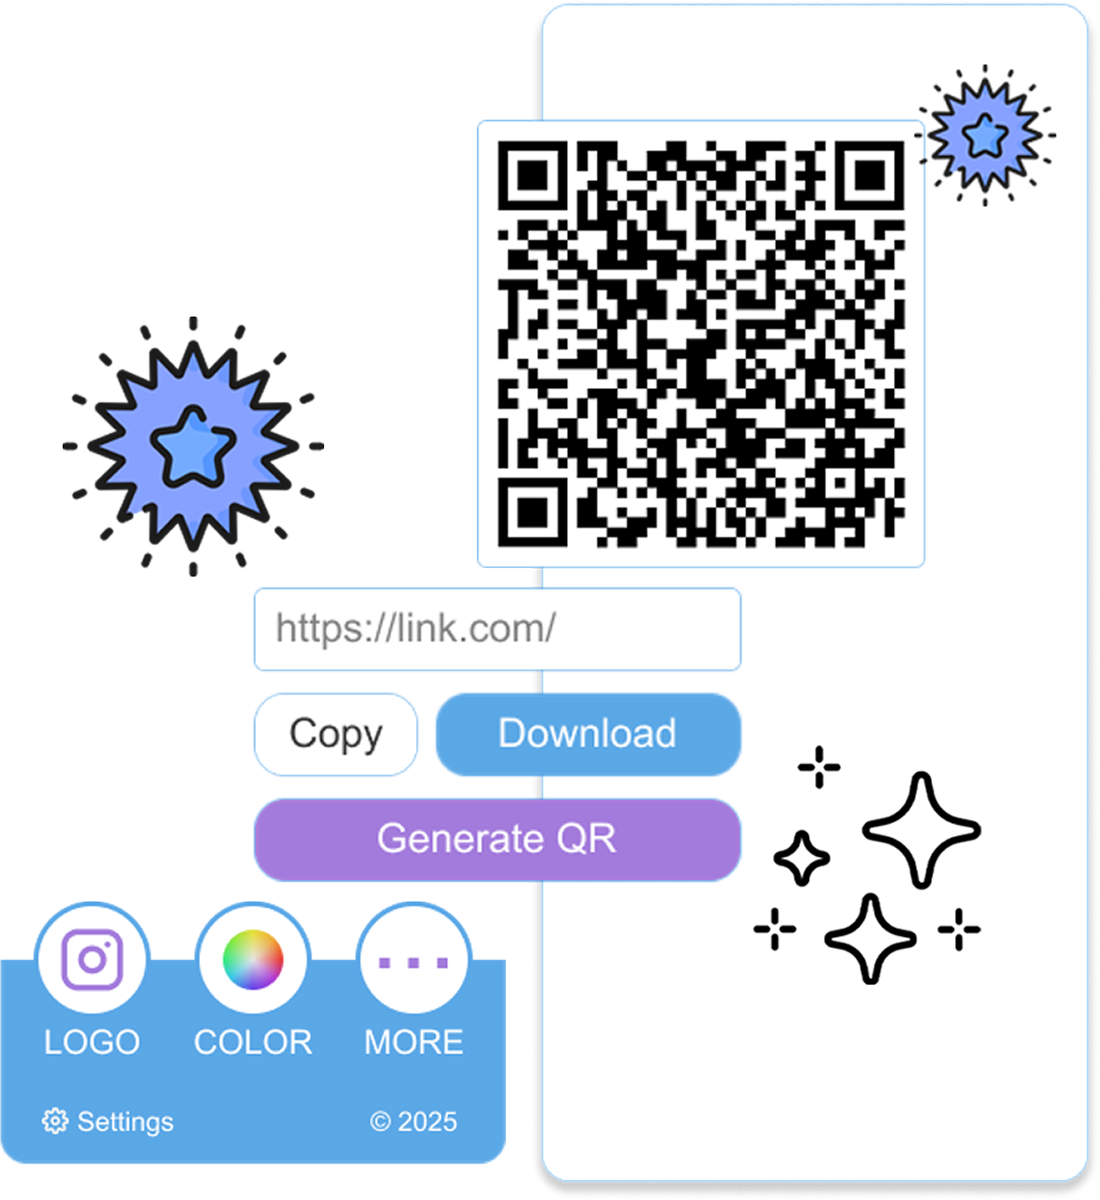
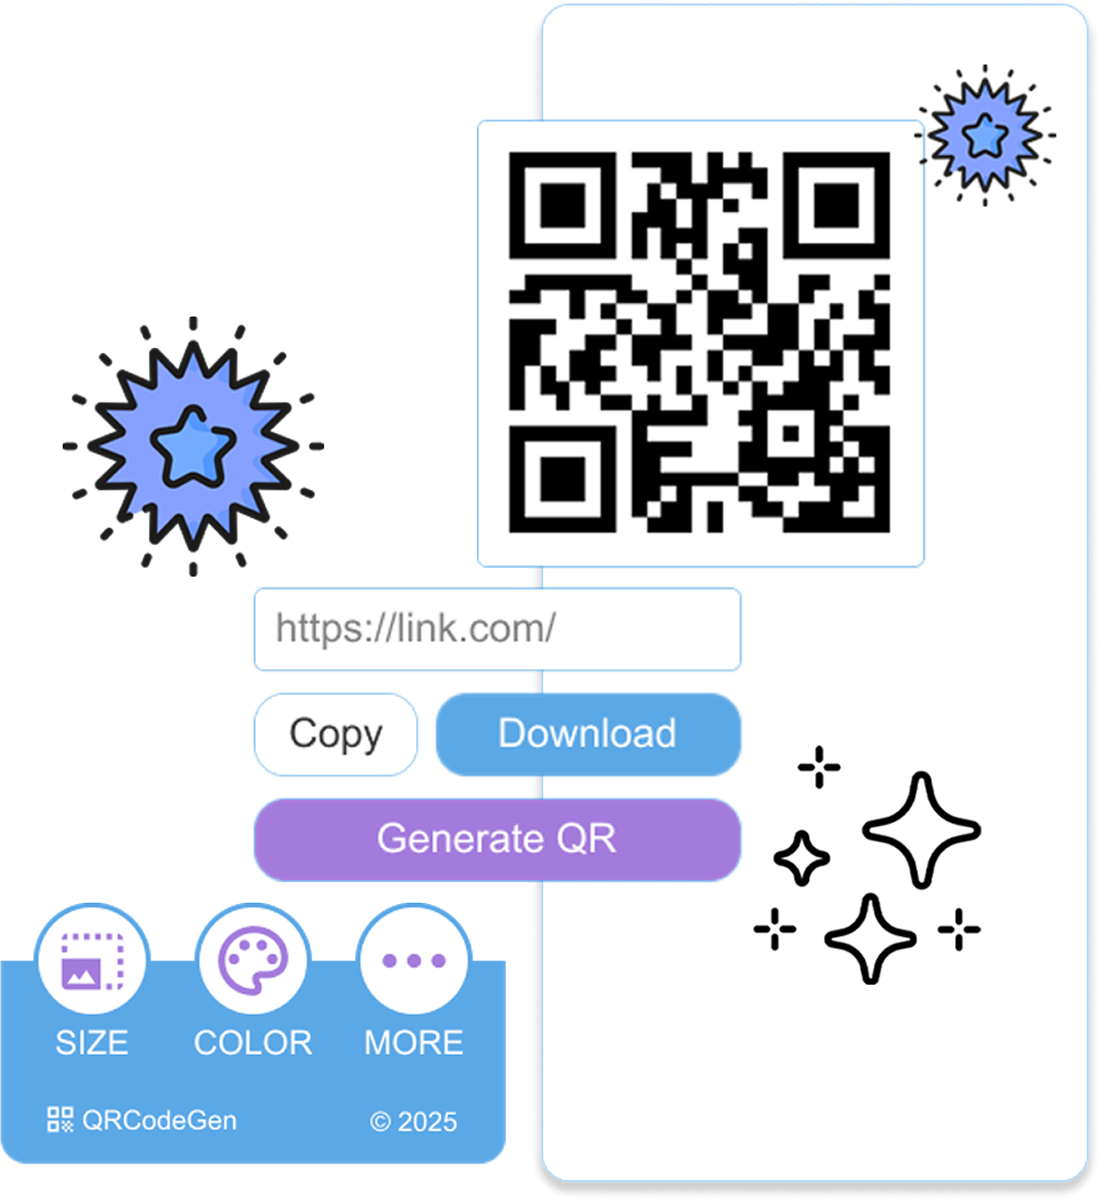
edit features component

diff --git a/src/components/Team/index.jsx b/src/components/Team/index.jsx
@@ -17,7 +17,8 @@ const Team = () => {
       name: "Vasilina Miryan",
       role: "Designer",
       imgPath: "",
-      description: "JS enthusiast, Figma enjoyer and TS hater. When she can't get a bug fixed, she thinks the world is rotten and there’s nothing left but misery.",
+      description:
+        "JS enthusiast, Figma enjoyer and TS hater. When she can't get a bug fixed, she thinks the world is rotten and there’s nothing left but misery.",
     },
     {
       name: "Elena Kolupaeva",
@@ -40,30 +41,47 @@ const Team = () => {
   ];
 
   return (
-    <Stack spacing={4} alignItems="center">
-      <Box>
+    <Stack spacing={4} alignItems="flex-start">
+      <Box
+        sx={{
+          display: "flex",
+          flexDirection: { xs: "column", md: "row" },
+          alignItems: "center",
+          gap: 2,
+        }}
+      >
         <Typography
-          variant="h6"
+          variant="subtitle1"
           sx={{
-            backgroundColor: "#7EB6FF",
+            backgroundColor: theme.palette.primary.main,
             color: "#000",
             px: 2,
-            py: 0.5,
-            borderRadius: "10px",
-            fontWeight: 600,
+            borderRadius: "20px",
             textAlign: "center",
+            fontSize: { xs: "32px", md: "48px" },
+            display: "inline-block",
+            alignSelf: "center",
           }}
         >
           Team
         </Typography>
+
+        <Typography variant="body1" textAlign="center" maxWidth="sm">
+          We are a small team of students trying our best to make life easier for others! We work only on a sheer power of our motivation and the fury of our academic supervisor.
+        </Typography>
       </Box>
-      <Typography variant="body1" textAlign="center" maxWidth="sm">
-        We are a small team of students trying our best to make life easier for others! We work only on a sheer power of our motivation and the fury of our academic supervisor.
-      </Typography>
 
       <Grid container spacing={4} justifyContent="center">
         {teammates.map((teammate, index) => (
-          <Grid item xs={12} sm={6} md={4} key={index} display="flex" justifyContent="center">
+          <Grid
+            item
+            xs={12}
+            sm={4}
+            md={4}
+            key={index}
+            display="flex"
+            justifyContent="center"
+          >
             <Teammate {...teammate} />
           </Grid>
         ))}

diff --git a/src/components/FeatureBlock/index.jsx b/src/components/FeatureBlock/index.jsx
@@ -20,19 +20,21 @@ const FeatureBlock = ({ type = "", description = "", isAndMore = false }) => {
         padding: 2,
         textAlign: "center",
         boxShadow: "0 8px 0 #c9acf8",
+        border: "1px solid #000",
       }}
     >
       <Stack spacing={1} alignItems="center" justifyContent="center">
         {type === "generate" && (
           <Button
             sx={{
-              backgroundColor: "#C9ACF8",
+              backgroundColor: theme.palette.secondary.main,
               color: "#fff",
               borderRadius: "10px",
               fontSize: "0.875rem",
               textTransform: "none",
               px: 2,
               py: 0.5,
+              fontFamily: "Arial, sans-serif",
             }}
           >
             Generate QR
@@ -50,6 +52,7 @@ const FeatureBlock = ({ type = "", description = "", isAndMore = false }) => {
                 borderRadius: "8px",
                 fontSize: "0.75rem",
                 padding: "6px 8px",
+                fontFamily: "Arial, sans-serif",
               },
             }}
             sx={{ width: "100%" }}
@@ -66,6 +69,7 @@ const FeatureBlock = ({ type = "", description = "", isAndMore = false }) => {
               textTransform: "none",
               px: 2,
               py: 0.5,
+              fontFamily: "Arial, sans-serif",
             }}
           >
             Copy
@@ -81,6 +85,7 @@ const FeatureBlock = ({ type = "", description = "", isAndMore = false }) => {
               textTransform: "none",
               px: 2,
               py: 0.5,
+              fontFamily: "Arial, sans-serif",
             }}
           >
             Download
@@ -96,7 +101,7 @@ const FeatureBlock = ({ type = "", description = "", isAndMore = false }) => {
         )}
         <Typography
           variant={isAndMore ? "h6" : "body2"}
-          sx={{ mt: 1, maxWidth: 180 }}
+          sx={{ mt: 1, maxWidth: 180, fontFamily: "Arial, sans-serif" }}
         >
           {description}
         </Typography>

diff --git a/src/components/Intro/index.jsx b/src/components/Intro/index.jsx
@@ -51,7 +51,8 @@ const Intro = () => {
           sx={{ width: { xs: "100%", md: "498px" } }}
         >
           Incredibly easy free extension for your browser that allows you to
-          generate QR code of the current page, your custom links or text in one click.
+          generate QR code of the current page, your custom links or text in one
+          click.
         </Typography>
 
         <Button
@@ -62,6 +63,8 @@ const Intro = () => {
             px: 3,
             py: 1,
           }}
+          href="https://github.com/hexlet-diploma/QRCodeGen/releases/tag/v1.0.1"
+          target="_blank"
         >
           <Typography variant="h4">Download QRCodeGen</Typography>
         </Button>

diff --git a/src/components/Features/index.jsx b/src/components/Features/index.jsx
@@ -68,13 +68,11 @@ const Features = () => {
         </Typography>
       </Box>
 
-      <Grid container spacing={4} justifyContent="center">
+      <Grid container spacing={4} justifyContent="center" width="40%" alignSelf="center">
         {features.map((feature, index) => (
           <Grid
             item
-            xs={12}
-            sm={6}
-            md={4}
+            size={{ xs: 12, md: 6 }}
             key={index}
             display="flex"
             justifyContent="center"

diff --git a/src/components/Header/index.jsx b/src/components/Header/index.jsx
@@ -70,6 +70,8 @@ const Header = () => {
               px: 3,
               py: 1,
             }}
+            href="https://github.com/hexlet-diploma/QRCodeGen/releases/tag/v1.0.1"
+            target="_blank"
           >
             <Typography variant="h3">Download</Typography>
           </Button>
